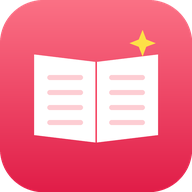
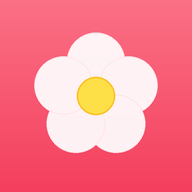
Add files via upload

diff --git a/index.html b/index.html
@@ -3,15 +3,15 @@
 <head>
     <meta charset="UTF-8">
     <meta name="viewport" content="width=device-width, initial-scale=1.0, viewport-fit=cover">
-    <meta name="description" content="Practice English - luyện từ vựng, ngữ pháp, flashcard và quiz.">
-    <title>ENT303 Study Hub</title>
+    <meta name="description" content="Mimi – Language Practice: học và luyện English, 中文 (HSK) và 日本語 (N5) với từ vựng, nghe, nói, viết, quiz và ôn tập.">
+    <title>Mimi – Language Practice</title>
 
     <!-- PWA / Mobile App -->
     <meta name="theme-color" content="#f43f5e">
     <meta name="mobile-web-app-capable" content="yes">
     <meta name="apple-mobile-web-app-capable" content="yes">
     <meta name="apple-mobile-web-app-status-bar-style" content="default">
-    <meta name="apple-mobile-web-app-title" content="ENT303">
+    <meta name="apple-mobile-web-app-title" content="Mimi">
     <link rel="manifest" href="manifest.webmanifest">
     <link rel="apple-touch-icon" href="icons/icon-192.png">
     <link rel="icon" type="image/png" href="icons/icon-192.png">
@@ -373,19 +373,19 @@ return{all:D,next,flat,pool};
 <style>body[data-mode="dark"] #auth-modal,body[data-mode="dark"] #col-ov{background:#12132a!important}#auth-modal,#col-ov{background:#faf9f6}</style>
 </head>
 <body class="text-gray-800 min-h-screen flex flex-col relative pb-12" onclick="closeHoverPopupOutside(event)">
-    <div id="cute-loader" class="cute-loader"><div class="text-center"><div class="loader-buddy text-6xl">🐣</div><div class="mt-3 text-lg font-black text-slateCustom">Đang mở góc học tập...</div><div class="mt-2 flex items-center justify-center gap-2"><span class="loader-dot w-2 h-2 rounded-full bg-rose-400"></span><span class="loader-dot w-2 h-2 rounded-full bg-amber-400"></span><span class="loader-dot w-2 h-2 rounded-full bg-emerald-400"></span></div></div></div>
+    <div id="cute-loader" class="cute-loader"><div class="text-center"><div class="loader-buddy text-6xl">🌸</div><div class="mt-3 text-lg font-black text-slateCustom">Mimi đang mở góc học tập...</div><div class="mt-2 flex items-center justify-center gap-2"><span class="loader-dot w-2 h-2 rounded-full bg-rose-400"></span><span class="loader-dot w-2 h-2 rounded-full bg-amber-400"></span><span class="loader-dot w-2 h-2 rounded-full bg-emerald-400"></span></div></div></div>
 
     <!-- Top Navigation Header -->
     <header class="bg-white/90 backdrop-blur-md sticky top-0 z-40 border-b border-rose-100 shadow-sm">
         <div class="max-w-7xl mx-auto px-4 sm:px-6 lg:px-8 h-12 flex justify-between items-center">
             
             <!-- Logo -->
-            <div onclick="switchSection('list')" class="flex items-center space-x-3 cursor-pointer group transition-all" title="Trở về Trang chủ từ vựng">
+            <div onclick="COLX.gate()" class="flex items-center space-x-3 cursor-pointer group transition-all" title="Chọn môn học (Mimi)">
                 <div class="w-10 h-10 bg-rose-500 rounded-2xl flex items-center justify-center text-white shadow-md shadow-rose-200 group-hover:scale-105 transition-transform">
-                    <i class="fa-solid fa-book-open text-lg"></i>
+                    <span class="text-xl leading-none">🌸</span>
                 </div>
                 <div>
-                    <span class="text-2xl font-extrabold text-slateCustom tracking-tight group-hover:text-rose-500 transition-colors">ENT303 <span class="text-rose-500 font-medium text-base">Master Hub</span></span>
+                    <span class="text-2xl font-extrabold text-slateCustom tracking-tight group-hover:text-rose-500 transition-colors">Mimi <span id="mimi-subj" class="text-rose-500 font-medium text-base">English</span></span>
                     <p data-guide="1" class="text-xs text-gray-400 font-medium">Vocabulary & Grammar • Flashcard • Quiz • Nghe chép • Tự động lưu</p>
                 </div>
             </div>
@@ -835,7 +835,7 @@ return{all:D,next,flat,pool};
         <span id="toast-message" class="text-sm">Đã lưu dữ liệu vĩnh viễn!</span>
     </div>
 
-    <div id="auth-modal" class="hidden fixed inset-0 items-center justify-center p-4 overflow-y-auto" style="z-index:6600"><div class="w-full max-w-sm bg-white rounded-[28px] p-6 shadow-2xl text-center"><div class="text-5xl bob">🐩</div><h2 class="text-2xl font-black text-slateCustom mt-2">Practice English</h2><div id="au-tabs" class="grid grid-cols-2 gap-2 mt-4"><button id="au-t-login" class="th-opt on" onclick="ENTX.mode('login')">Đăng nhập</button><button id="au-t-reg" class="th-opt" onclick="ENTX.mode('reg')">Tạo tài khoản</button></div><input id="au-name" maxlength="20" autocomplete="username" placeholder="Tên của bạn" class="mt-4 w-full px-4 py-3 rounded-2xl border border-rose-200 text-center font-extrabold outline-none"><input id="au-pin" type="password" inputmode="numeric" maxlength="4" autocomplete="current-password" placeholder="Mật khẩu 4 số" class="mt-3 w-full px-4 py-3 rounded-2xl border border-rose-200 text-center font-extrabold tracking-[.5em] outline-none" onkeydown="if(event.key==='Enter')ENTX.auth()"><label id="au-rem-row" class="mt-3 flex items-center justify-center gap-2 text-xs font-bold text-gray-600 cursor-pointer"><input id="au-remember" type="checkbox" checked class="w-4 h-4 accent-rose-500"> Ghi nhớ đăng nhập trên máy này</label><p id="au-hint" class="text-[11px] leading-relaxed text-gray-500 mt-3 px-1"></p><p id="au-err" class="text-xs font-bold text-rose-500 mt-2 min-h-4"></p><button id="au-go" onclick="ENTX.auth()" class="mt-2 w-full py-3.5 bg-rose-500 text-white rounded-2xl font-black">Đăng nhập ✨</button><button id="au-skip" onclick="ENTX.skip()" class="mt-3 text-[11px] text-gray-400 font-bold">Dùng thử không cần tài khoản</button></div></div>
+    <div id="auth-modal" class="hidden fixed inset-0 items-center justify-center p-4 overflow-y-auto" style="z-index:6600"><div class="w-full max-w-sm bg-white rounded-[28px] p-6 shadow-2xl text-center"><div class="text-5xl bob">🌸</div><h2 class="text-2xl font-black text-slateCustom mt-2">Mimi – Language Practice</h2><div id="au-tabs" class="grid grid-cols-2 gap-2 mt-4"><button id="au-t-login" class="th-opt on" onclick="ENTX.mode('login')">Đăng nhập</button><button id="au-t-reg" class="th-opt" onclick="ENTX.mode('reg')">Tạo tài khoản</button></div><input id="au-name" maxlength="20" autocomplete="username" placeholder="Tên của bạn" class="mt-4 w-full px-4 py-3 rounded-2xl border border-rose-200 text-center font-extrabold outline-none"><input id="au-pin" type="password" inputmode="numeric" maxlength="4" autocomplete="current-password" placeholder="Mật khẩu 4 số" class="mt-3 w-full px-4 py-3 rounded-2xl border border-rose-200 text-center font-extrabold tracking-[.5em] outline-none" onkeydown="if(event.key==='Enter')ENTX.auth()"><label id="au-rem-row" class="mt-3 flex items-center justify-center gap-2 text-xs font-bold text-gray-600 cursor-pointer"><input id="au-remember" type="checkbox" checked class="w-4 h-4 accent-rose-500"> Ghi nhớ đăng nhập trên máy này</label><p id="au-hint" class="text-[11px] leading-relaxed text-gray-500 mt-3 px-1"></p><p id="au-err" class="text-xs font-bold text-rose-500 mt-2 min-h-4"></p><button id="au-go" onclick="ENTX.auth()" class="mt-2 w-full py-3.5 bg-rose-500 text-white rounded-2xl font-black">Đăng nhập ✨</button><button id="au-skip" onclick="ENTX.skip()" class="mt-3 text-[11px] text-gray-400 font-bold">Dùng thử không cần tài khoản</button></div></div>
 <div id="theme-modal" class="hidden fixed inset-0 z-[6500] bg-black/40 backdrop-blur-sm items-center justify-center p-4" onclick="if(event.target===this)ENTX.closeTheme()"><div class="w-full max-w-sm bg-white rounded-[28px] p-5 shadow-2xl max-h-[90vh] overflow-y-auto"><div class="flex justify-between items-center"><h3 class="font-black text-lg text-slateCustom">🎨 Giao diện</h3><button onclick="ENTX.closeTheme()" class="text-gray-400 text-xl">✕</button></div><div class="grid grid-cols-2 gap-2 mt-4"><button class="th-opt" id="md-light" onclick="ENTX.mode('light')">☀ Sáng</button><button class="th-opt" id="md-dark" onclick="ENTX.mode('dark')">🌙 Tối</button></div><div class="grid grid-cols-2 gap-2 mt-3" id="th-grid"></div><p class="text-xs font-black text-gray-500 mt-4 mb-2">🖼 Hình nền</p><div class="grid grid-cols-4 gap-2" id="bg-presets"></div><div class="flex gap-2 mt-2"><label class="th-opt flex-1 text-center cursor-pointer">📁 Ảnh của bạn<input type="file" accept="image/*" class="hidden" onchange="ENTX.bgFile(event)"></label><button class="th-opt" onclick="ENTX.bgUrl()" title="Dán link ảnh">🔗</button><button class="th-opt" onclick="ENTX.bgClear()" title="Bỏ hình nền">🚫</button></div><div id="acct-row" class="hidden mt-4 pt-3 border-t border-gray-100 flex items-center justify-between"><b id="acct-name" class="text-sm text-slateCustom"></b><button onclick="ENTX.logout()" class="text-xs font-extrabold text-rose-500">Đăng xuất</button></div></div></div>
 
     <!-- APPLICATION SCRIPT ENGINE WITH LOCALSTORAGE PERSISTENCE -->
@@ -2774,7 +2774,7 @@ window.allVocabItems=function(){const o=[];(cur().folders||[]).forEach(f=>(units
 function buildHeader(){
   const c=cur(),ent=!!c.builtin;
   const brand=document.querySelector('header span.text-2xl');
-  if(brand)brand.innerHTML='Practice <span class="text-rose-500 font-medium text-base">English</span>';const sub=document.querySelector('header p[data-guide]');if(sub)sub.innerText=c.emoji+' '+c.name+' • Từ vựng • Ngữ pháp • Quiz';
+  if(brand)brand.innerHTML='Mimi <span id="mimi-subj" class="text-rose-500 font-medium text-base">English</span>';const sub=document.querySelector('header p[data-guide]');if(sub)sub.innerText=c.emoji+' '+c.name+' • Từ vựng • Ngữ pháp • Quiz';
   const opts=c.folders.map(f=>`<option value="${f.id}">${ent?('Unit '+f.id+': '+esc(fname(f))):('📁 '+esc(fname(f)))}</option>`).join('');
   ['unit-select','aw-unit'].forEach(id=>{const s=$(id);if(s)s.innerHTML=opts});
   if(!$('col-tools')){const s=$('unit-select');s.insertAdjacentHTML('afterend','<span id="col-tools" class="flex gap-1.5"><button onclick="COLX.folders()" title="Quản lý folder" class="px-3 py-1.5 bg-rose-50 border border-rose-200 text-rose-600 rounded-xl text-xs font-bold">📁</button><button onclick="COLX.lib(true)" title="Bộ sưu tập" class="px-3 py-1.5 bg-rose-50 border border-rose-200 text-rose-600 rounded-xl text-xs font-bold">🗂</button></span>')}
@@ -2818,6 +2818,7 @@ function closeOv(){ov().classList.add('hidden')}
 function card(onclick,emoji,title,sub,extra){return `<div class="home-card rounded-[26px] p-5 text-left cursor-pointer hover:shadow-lg transition" onclick="${onclick}"><div class="flex items-center gap-4"><span class="text-4xl">${emoji}</span><div class="min-w-0 flex-1"><b class="block text-lg font-black text-slateCustom truncate">${title}</b><span class="block text-xs font-bold text-gray-500 mt-0.5">${sub}</span></div></div>${extra||''}</div>`}
 function gate(){
   const n=LS.getItem('ENT303_NAME')||'',e=col('ent303'),hid=e.hidden;
+  if(window.Mimi){ov().innerHTML=Mimi.hub(n,acct());ov().classList.remove('hidden');ov().scrollTop=0;return}
   ov().innerHTML=`<div class="max-w-xl mx-auto px-5 py-10"><div class="text-center"><div class="text-6xl bob">🐩</div><h1 class="text-2xl font-black text-slateCustom mt-3">${n?'Hi '+esc(n)+'! ':''}Hôm nay học gì nào?</h1><p class="text-sm text-gray-500 mt-1">Chọn một chế độ để bắt đầu</p></div><div class="grid gap-4 mt-8">${card(hid?'COLX.restoreEnt()':"COLX.go('ent303')",'🎓',hid?'Khôi phục ENT303':'Học ENT303',hid?'Bộ ENT303 đang được ẩn • bấm để bật lại':'Top Notch 3 • 10 Units • '+words(e)+' từ')}${card('COLX.free()','✏','Luyện từ vựng & ngữ pháp','Tự tạo bộ sưu tập, folder, từ và ngữ pháp của riêng bạn')}</div>${acct()}</div>`;
   ov().classList.remove('hidden');
 }
@@ -2866,7 +2867,7 @@ window.COLX=X;X.free=function(){lib(false);if(!cols.some(c=>!c.builtin))X.newCol
 let started=false;
 X.start=function(){if(started)return;started=true;
   if(!cur()||cur().hidden){const o=cols.find(c=>!c.hidden);active=o?o.id:'ent303'}
-  if(LS.getItem('ENT303_ONBOARDED')==='1')enter(active);else gate()};
+  if(LS.getItem('ENT303_ONBOARDED')==='1'){const ls=window.Mimi?Mimi.saved:'en';enter(active);if((ls==='zh'||ls==='ja')&&window.Mimi)setTimeout(()=>Mimi.open(ls),0)}else gate()};
 function acct(){const P=window.ENT303MP,n=LS.getItem('ENT303_NAME')||'',on=P&&P.user&&P.user();
   return `<div class="mt-6 pt-4 border-t border-gray-200 flex items-center justify-between gap-3"><span class="text-sm font-bold text-slateCustom truncate">👤 ${esc(n||'Khách')}${on?'':' <small class="text-gray-400">(chưa đăng nhập)</small>'}</span>${on?`<button class="px-3 py-2 rounded-xl bg-rose-50 text-rose-600 text-xs font-extrabold" onclick="COLX.logout()">↪ Đăng xuất / đổi tài khoản</button>`:`<button class="px-3 py-2 rounded-xl bg-violet-50 text-violet-700 text-xs font-extrabold" onclick="COLX.login()">Đăng nhập / tạo tài khoản</button>`}</div>`}
 X.logout=function(){if(confirm('Đăng xuất khỏi tài khoản này?\nDữ liệu học đã được lưu trong tài khoản và sẽ tải lại khi bạn đăng nhập. Nhớ tên và mật khẩu 4 số nhé!'))ENT303MP.logout()};
@@ -2936,5 +2937,8 @@ window.addEventListener('load',()=>setTimeout(()=>{
 </script>
 
 <script src="ent-v8.js"></script>
+<script src="hsk1-data.js"></script>
+<script src="hsk1-app.js"></script>
+<script src="mimi.js"></script>
 </body>
 </html>

diff --git a/mimi.js b/mimi.js
@@ -1,0 +1,160 @@
+/* 🌸 Mimi – Language Practice
+   Khung 3 môn NGANG HÀNG: English • 中文 (HSK) • 日本語 (N5).
+   - Màn chọn môn (hub) + "Mimi Progress"
+   - Chip môn học ở header, thanh điều hướng theo môn
+   - Trang chủ môn Tiếng Nhật (nội dung đầy đủ làm ở bước sau)
+   Không chứa nội dung sách. Tiến độ chỉ ĐỌC từ dữ liệu sẵn có (chưa đồng bộ Supabase – Bước 5). */
+(()=>{
+if(window.Mimi)return;
+const LS=localStorage,$=id=>document.getElementById(id);
+const esc=s=>String(s).replace(/[&<>"]/g,c=>({'&':'&amp;','<':'&lt;','>':'&gt;','"':'&quot;'}[c]));
+/* Tạm thời: số từ hiện có trong hoc-ngoai-ngu.html (Hiragana + N5 cơ bản). Cập nhật ở Bước 11. */
+const JA_TOTAL=53;
+const SUBJ={
+  en:{flag:'🇬🇧',name:'English',label:'Tiếng Anh',chip:'English',sub:'Top Notch 3 • Từ vựng • Ngữ pháp • Quiz',c1:'#f43f5e',c2:'#fb923c'},
+  zh:{flag:'🇨🇳',name:'中文',label:'Tiếng Trung • HSK1',chip:'中文 HSK1',navLabel:'Tiếng Trung',sub:'Thanh điệu • Pinyin • Chữ Hán • 15 bài',c1:'#dc2626',c2:'#f59e0b'},
+  ja:{flag:'🇯🇵',name:'日本語',label:'Tiếng Nhật • N5',chip:'日本語 N5',navLabel:'Tiếng Nhật',sub:'Hiragana • Katakana • Minna no Nihongo',c1:'#ec4899',c2:'#6366f1'}
+};
+let cur='en';
+const saved=LS.getItem('MIMI_SUBJ')||'en'; /* môn lần trước – đọc trước khi app tự chuyển trang */
+
+/* ---------- tiến độ (chỉ đọc) ---------- */
+function statEn(){try{let n=0,t=0;for(let i=1;i<=10;i++){const u=unitsData[i];(u&&u.vocab||[]).forEach(v=>{t++;if(learnedCardsSet.has(v.word))n++})}return[n,t]}catch(e){return[0,0]}}
+function statZh(){try{const H=(window.HSK1||{}).lessons||[],all=H.flatMap(l=>l.w.map(w=>w[0]));let P={};try{P=JSON.parse(LS.getItem('PE_ZH')||'{}')}catch(e){}return[all.filter(c=>P[c]).length,all.length]}catch(e){return[0,0]}}
+function statJa(){try{let P={};try{P=JSON.parse(LS.getItem('PE_LANG')||'{}')}catch(e){}const n=Object.keys(P).filter(k=>k.slice(0,3)==='ja:'&&P[k]).length;return[Math.min(n,JA_TOTAL),JA_TOTAL]}catch(e){return[0,JA_TOTAL]}}
+const stats=()=>({en:statEn(),zh:statZh(),ja:statJa()});
+const pct=(n,t)=>t?Math.min(100,Math.round(n/t*100)):0;
+
+/* ---------- CSS ---------- */
+document.head.insertAdjacentHTML('beforeend',`<style id="mimi-css">
+.mm-wrap{max-width:860px;margin:0 auto;padding:max(28px,env(safe-area-inset-top)) max(18px,env(safe-area-inset-right)) max(28px,env(safe-area-inset-bottom)) max(18px,env(safe-area-inset-left));color:#334155}
+body[data-mode=dark] .mm-wrap{color:#e5e7eb}
+.mm-top{display:flex;align-items:center;min-height:44px}
+.mm-hero{text-align:center;margin:6px 0 22px}
+.mm-logo{font-size:64px;line-height:1;animation:mmfloat 3s ease-in-out infinite}
+@keyframes mmfloat{0%,100%{transform:translateY(0) rotate(-3deg)}50%{transform:translateY(-8px) rotate(3deg)}}
+.mm-hero h1{font-size:34px;font-weight:900;margin:8px 0 0;letter-spacing:-.5px}
+.mm-hero .mm-tag{font-weight:800;opacity:.65;font-size:14px;letter-spacing:.5px}
+.mm-hero .mm-hi{margin-top:10px;font-weight:800;font-size:17px}
+.mm-grid{display:grid;gap:14px;grid-template-columns:1fr}
+@media(min-width:720px){.mm-grid{grid-template-columns:repeat(3,1fr)}}
+.mm-card{display:flex;align-items:center;gap:16px;width:100%;min-height:92px;text-align:left;padding:16px 18px;border-radius:26px;border:1px solid var(--acc-b,#ffe4e6);background:var(--card,rgba(255,255,255,.96));color:inherit;box-shadow:0 10px 30px rgba(0,0,0,.07);position:relative;overflow:hidden;cursor:pointer;transition:transform .15s,box-shadow .15s}
+.mm-card:before{content:"";position:absolute;left:0;top:0;bottom:0;width:7px;background:linear-gradient(180deg,var(--c1),var(--c2))}
+.mm-card:hover{transform:translateY(-2px);box-shadow:0 14px 34px rgba(0,0,0,.12)}
+.mm-card:active{transform:scale(.985)}
+.mm-flag{font-size:40px;line-height:1;flex:none}
+.mm-txt{display:flex;flex-direction:column;gap:2px;min-width:0}
+.mm-name{font-size:24px;font-weight:900;line-height:1.15}
+.mm-lab{font-size:13px;font-weight:800;opacity:.75}
+.mm-sub{font-size:12px;font-weight:700;opacity:.55;line-height:1.35;margin-top:2px}
+.mm-go{margin-top:6px;font-size:12px;font-weight:900;color:var(--c1)}
+@media(min-width:720px){.mm-card{flex-direction:column;text-align:center;padding:22px 16px 18px}.mm-txt{align-items:center}.mm-card:before{width:auto;height:7px;right:0;bottom:auto;background:linear-gradient(90deg,var(--c1),var(--c2))}.mm-flag{font-size:46px}}
+.mm-box{margin-top:20px;border-radius:26px;padding:18px;border:1px solid var(--acc-b,#ffe4e6);background:var(--card,rgba(255,255,255,.96));box-shadow:0 8px 25px rgba(0,0,0,.05)}
+.mm-box h3{font-size:16px;font-weight:900;margin:0 0 12px}
+.mm-row{margin:12px 0}
+.mm-row .mm-rl{display:flex;justify-content:space-between;gap:10px;font-weight:900;font-size:14px;margin-bottom:6px}
+.mm-row .mm-rl small{font-weight:800;opacity:.6;font-size:12px}
+.mm-bar{display:block;height:12px;border-radius:99px;background:rgba(0,0,0,.08);overflow:hidden}
+body[data-mode=dark] .mm-bar{background:rgba(255,255,255,.14)}
+.mm-bar i{display:block;height:100%;border-radius:99px;background:linear-gradient(90deg,var(--c1),var(--c2));min-width:0;transition:width .5s}
+.mm-extra{display:flex;flex-wrap:wrap;gap:10px;margin-top:16px}
+.mm-btn{display:inline-flex;align-items:center;justify-content:center;gap:6px;min-height:46px;padding:10px 18px;border-radius:16px;border:1px solid var(--acc-b,#ffd7dd);background:var(--card,#fff);color:inherit;font-weight:900;font-size:14px;text-decoration:none;cursor:pointer}
+.mm-btn.pri{background:linear-gradient(135deg,#f43f5e,#fb923c);color:#fff;border:0}
+/* Chip môn học + nav theo môn */
+#mimi-subj{white-space:nowrap}
+#nav-mimi,#nav-subj{display:none}
+body[data-subject=zh] .bottom-nav-inner>button:not(#nav-mimi):not(#nav-subj):not(#nav-account),
+body[data-subject=ja] .bottom-nav-inner>button:not(#nav-mimi):not(#nav-subj):not(#nav-account){display:none!important}
+body[data-subject=zh] #nav-mimi,body[data-subject=zh] #nav-subj,body[data-subject=ja] #nav-mimi,body[data-subject=ja] #nav-subj{display:flex!important}
+body[data-subject=zh] .bottom-nav-inner,body[data-subject=ja] .bottom-nav-inner{grid-template-columns:repeat(3,minmax(0,1fr))!important}
+#nav-mimi{order:1}#nav-subj{order:2}#nav-account{order:3}
+body[data-subject=zh] #unit-select,body[data-subject=ja] #unit-select,body[data-subject=zh] #col-tools,body[data-subject=ja] #col-tools,
+body[data-subject=zh] header p[data-guide],body[data-subject=ja] header p[data-guide]{display:none!important}
+/* tai thỏ / cạnh màn hình */
+header{padding-top:env(safe-area-inset-top)}
+@media(max-width:640px){main.flex-grow{padding-left:max(16px,env(safe-area-inset-left));padding-right:max(16px,env(safe-area-inset-right))}}
+/* Trang chủ Tiếng Nhật */
+#ja-section{padding-bottom:20px}
+.mm-jhero{border-radius:28px;padding:22px;color:#fff;background:linear-gradient(135deg,#ec4899,#6366f1);box-shadow:0 12px 30px rgba(99,102,241,.25)}
+.mm-jhero h2{font-size:28px;font-weight:900;margin:4px 0}
+.mm-jhero p{opacity:.92;font-weight:700;font-size:14px}
+.mm-jhero .mm-bar{background:rgba(255,255,255,.3);margin-top:12px}
+.mm-jhero .mm-bar i{background:#fff}
+.mm-road{list-style:none;margin:0;padding:0}
+.mm-road li{display:flex;align-items:center;gap:10px;padding:11px 0;border-top:1px solid rgba(0,0,0,.07);font-weight:800;font-size:14px}
+body[data-mode=dark] .mm-road li{border-color:rgba(255,255,255,.1)}
+.mm-road li:first-child{border-top:0}
+.mm-road .mm-st{margin-left:auto;font-size:11px;padding:3px 9px;border-radius:99px;background:rgba(0,0,0,.07);white-space:nowrap}
+.mm-road .mm-st.ok{background:#dcfce7;color:#166534}
+body[data-mode=dark] .mm-road .mm-st{background:rgba(255,255,255,.12)}
+</style>`);
+
+/* ---------- Hub chọn môn ---------- */
+function hub(name,acctHtml){
+  const st=stats(),canClose=LS.getItem('ENT303_ONBOARDED')==='1';
+  const card=k=>{const s=SUBJ[k];return `<button type="button" class="mm-card" style="--c1:${s.c1};--c2:${s.c2}" onclick="Mimi.open('${k}')"><span class="mm-flag">${s.flag}</span><span class="mm-txt"><b class="mm-name">${s.name}</b><span class="mm-lab">${s.label}</span><span class="mm-sub">${s.sub}</span><span class="mm-go">Vào học →</span></span></button>`};
+  const row=k=>{const s=SUBJ[k],[n,t]=st[k],p=pct(n,t);return `<div class="mm-row" style="--c1:${s.c1};--c2:${s.c2}"><div class="mm-rl"><span>${s.flag} ${k==='zh'?'HSK1':k==='ja'?'N5':'English'}</span><small>${n}/${t} từ • ${p}%</small></div><span class="mm-bar"><i style="width:${p}%"></i></span></div>`};
+  return `<div class="mm-wrap">${canClose?'<div class="mm-top"><button class="back-btn" onclick="COLX.close()">← Đóng</button></div>':''}
+<div class="mm-hero"><div class="mm-logo">🌸</div><h1>Mimi</h1><div class="mm-tag">Language Practice</div><div class="mm-hi">${name?'Hi '+esc(name)+'! ':''}Hôm nay học gì nào?</div></div>
+<div class="mm-grid">${card('en')}${card('zh')}${card('ja')}</div>
+<div class="mm-box"><h3>📊 Mimi Progress</h3>${row('en')}${row('zh')}${row('ja')}</div>
+<div class="mm-extra"><button class="mm-btn" onclick="COLX.free()">🗂 Bộ sưu tập English của tôi</button></div>
+${acctHtml||''}</div>`;
+}
+
+/* ---------- Mở một môn ---------- */
+function openEn(){
+  let cols=[];try{cols=JSON.parse(LS.getItem('ENT303_COLS')||'[]')}catch(e){}
+  if(!Array.isArray(cols)||!cols.length){COLX.go('ent303');return}
+  const a=LS.getItem('ENT303_ACTIVE_COL')||'ent303';
+  const c=cols.find(x=>x.id===a&&!x.hidden)||cols.find(x=>!x.hidden);
+  if(c)COLX.go(c.id);else COLX.restoreEnt();
+}
+function open(k){
+  if(k==='en')return openEn();
+  if(!SUBJ[k])return;
+  try{COLX.close()}catch(e){}
+  switchSection(k);
+}
+
+/* ---------- Môn đang học: chip header, nav ---------- */
+function set(s){
+  if(!SUBJ[s])return;cur=s;LS.setItem('MIMI_SUBJ',s);
+  document.body.dataset.subject=s;
+  const chip=$('mimi-subj');if(chip)chip.textContent=SUBJ[s].chip;
+  const nb=$('nav-subj');if(nb){const e=nb.querySelector('.nav-emoji'),l=nb.querySelector('.nav-lbl');if(s!=='en'){if(e)e.textContent=SUBJ[s].flag;if(l)l.textContent=SUBJ[s].navLabel}}
+}
+function setupNav(){
+  const nav=document.querySelector('.bottom-nav-inner');if(!nav||$('nav-mimi'))return;
+  nav.insertAdjacentHTML('beforeend','<button id="nav-mimi" onclick="COLX.gate()" title="Chọn môn học"><span class="nav-emoji">🌸</span><span>Mimi</span></button><button id="nav-subj" onclick="Mimi.home()"><span class="nav-emoji">🇨🇳</span><span class="nav-lbl">Tiếng Trung</span></button>');
+}
+const home=()=>switchSection(cur==='ja'?'ja':'zh');
+
+/* ---------- Trang chủ Tiếng Nhật ---------- */
+function jaSec(){let s=$('ja-section');if(!s){const c=$('content-area');if(!c)return null;c.insertAdjacentHTML('beforeend','<div id="ja-section" class="hidden"></div>');s=$('ja-section')}return s}
+function drawJa(){
+  const s=jaSec();if(!s)return;
+  const [n,t]=statJa(),p=pct(n,t);
+  const road=[['あ','Hiragana','Có bản luyện cơ bản',1],['ア','Katakana','Sắp có',0],['🔊','Phát âm','Sắp có',0],['📚','Từ vựng N5','Có bản luyện cơ bản',1],['漢','Kanji','Sắp có',0],['📖','Minna no Nihongo (từng bài)','Sắp có',0],['🎧','Listening','Sắp có',0],['🗣','Speaking','Sắp có',0],['✍','Writing (tracing)','Sắp có',0],['🎯','Practice & Review','Sắp có',0]];
+  s.innerHTML=`<div class="mm-jhero"><div style="font-size:42px">🇯🇵</div><h2>日本語 N5</h2><p>Minna no Nihongo • Hiragana → Katakana → Từ vựng → Kanji → Luyện tập</p><span class="mm-bar"><i style="width:${p}%"></i></span><p style="margin-top:6px;font-size:12px">${n}/${t} từ đã thuộc (bản luyện hiện có)</p></div>
+<div class="mm-box"><h3>🚧 Đang xây dựng</h3><p style="font-size:14px;font-weight:700;opacity:.8;line-height:1.5">Giáo trình đầy đủ sẽ được thêm theo Minna no Nihongo sau khi HSK1 hoàn chỉnh. Trong lúc chờ, bạn có thể luyện Hiragana và từ N5 cơ bản ở trang luyện hiện có.</p><div class="mm-extra"><a class="mm-btn pri" href="hoc-ngoai-ngu.html">Mở trang luyện Hiragana · N5</a></div></div>
+<div class="mm-box"><h3>🗺 Lộ trình N5</h3><ol class="mm-road">${road.map(r=>`<li><span style="font-size:20px;width:28px;text-align:center">${r[0]}</span><span>${r[1]}</span><span class="mm-st ${r[3]?'ok':''}">${r[2]}</span></li>`).join('')}</ol></div>`;
+}
+
+/* ---------- Gắn vào điều hướng ---------- */
+const prev=window.switchSection;
+window.switchSection=function(s){
+  prev.apply(this,arguments);
+  const subj=s==='zh'?'zh':s==='ja'?'ja':s==='account'?cur:'en';
+  set(subj);
+  const ja=jaSec();
+  if(s==='ja'){if(ja){ja.classList.remove('hidden');drawJa()}$('unit-hero')?.classList.add('hidden');window.scrollTo(0,0)}
+  else if(ja)ja.classList.add('hidden');
+  const nb=$('nav-subj');if(nb)nb.classList.toggle('active',s==='zh'||s==='ja');
+};
+
+setupNav();
+document.body.dataset.subject='en';
+window.addEventListener('load',()=>setTimeout(setupNav,0));
+window.Mimi={hub,open,home,stats,set,saved,subjects:SUBJ,current:()=>cur};
+})();

diff --git a/ent-v8.js b/ent-v8.js
@@ -115,7 +115,7 @@ function render(){const a=$('account-section');if(!a)return;const n=LS.getItem('
  <div class="ac-card"><h3>📣 Thông báo</h3>${anns.length?anns.map(x=>`<div class="text-sm py-1 border-b border-gray-100">${esc(x.text)} <small class="text-gray-400">${new Date(x.created_at).toLocaleDateString('vi-VN')}</small>${isHost?` <button class="text-rose-500 text-xs" onclick="ENT8.delAnn(${x.id})">xóa</button>`:''}</div>`).join(''):'<p class="text-sm text-gray-400">Chưa có thông báo.</p>'}
  ${isHost?'<textarea id="ann-in" rows="2" class="w-full mt-2 p-3 border border-rose-100 rounded-xl text-sm" placeholder="Nội dung thông báo cho cả lớp..."></textarea><button class="ac-btn pri mt-2" onclick="ENT8.postAnn()">Đăng thông báo</button>':''}</div>
  ${isHost?'<div class="ac-card"><h3>🛠 Công cụ Host</h3><p class="text-xs text-gray-500 mb-2">Sửa từ/ngữ pháp bằng nút ⋮ như bình thường, rồi bấm Xuất bản để mọi tài khoản nhận thay đổi.</p><div class="flex flex-wrap gap-2"><button class="ac-btn pri" onclick="ENT8.publish()">📤 Xuất bản cho cả lớp</button><button class="ac-btn" onclick="ENT8.pull(true)">⬇ Tải lại bản đã xuất bản</button></div></div>':''}
- <div class="ac-card"><h3>🌏 Học Tiếng Trung · Tiếng Nhật</h3><p class="text-xs text-gray-500 mb-2">HSK1–2 và N5 cho người mới bắt đầu.</p><a class="ac-btn pri" href="hoc-ngoai-ngu.html">Mở trang học</a></div>
+ <div class="ac-card"><h3>🌸 Chọn môn học</h3><p class="text-xs text-gray-500 mb-2">English • 中文 (HSK) • 日本語 (N5) — 3 môn ngang hàng trong Mimi.</p><button class="ac-btn pri" onclick="COLX.gate()">Mở Mimi</button></div>
  ${stuCard()}
  ${wordsList()}
  ${qCard()}
@@ -154,5 +154,4 @@ if(sb)sb.auth.onAuthStateChange(()=>checkHost());
 if('serviceWorker'in navigator)addEventListener('load',()=>navigator.serviceWorker.register('sw.js').catch(()=>{}));
 addEventListener('load',()=>setTimeout(async()=>{setup();injectQ();await checkHost();E8.pull();loadAnns()},900));
 })();
-/* Tiếng Trung HSK1: nạp dữ liệu rồi nạp phần giao diện */
-(function(){const L=s=>new Promise(r=>{const e=document.createElement('script');e.src=s;e.onload=e.onerror=r;document.body.appendChild(e)});L('hsk1-data.js').then(()=>L('hsk1-app.js'))})();
+/* hsk1-data.js, hsk1-app.js và mimi.js được nạp trực tiếp bằng <script> trong index.html (đúng thứ tự). */

diff --git a/hsk1-app.js b/hsk1-app.js
@@ -1,4 +1,4 @@
-/* Tiếng Trung HSK1 trong app ENT303: Bước 0 (thanh điệu, phụ âm, vần, chữ Hán) + 15 bài + luyện tập. Dữ liệu: hsk1-data.js */
+/* Tiếng Trung HSK1 trong Mimi: Bước 0 (thanh điệu, phụ âm, vần, chữ Hán) + 15 bài + luyện tập. Dữ liệu: hsk1-data.js */
 (()=>{
 const H=(window.HSK1||{}).lessons;if(!H)return;
 const $=id=>document.getElementById(id),LS=localStorage,toast=m=>{try{showToast(m)}catch(e){alert(m)}};
@@ -58,5 +58,5 @@ Object.assign(window.Z_,{next:()=>{Q.n++;draw()},again:()=>{Q=mk(Z.i);draw()}});
 /* ---- Gắn vào điều hướng của app (Back, nút Back điện thoại, lịch sử) ---- */
 const prev=window.switchSection;
 window.switchSection=function(s){prev.apply(this,arguments);if(s==='zh'){const st=history.state;Z=(st&&st.s==='zh'&&st.z)||{v:'home'};if(Z.v!=='quiz')Q=null;sec.classList.remove('hidden');$('unit-hero')?.classList.add('hidden');draw()}else sec.classList.add('hidden')};
-const g=document.querySelector('#home-section section.grid');if(g)g.insertAdjacentHTML('beforeend','<button onclick="switchSection(\'zh\')" class="home-action"><span class="text-2xl">🇨🇳</span><b class="block mt-1 text-sm">Tiếng Trung</b></button>');
+/* Mimi: Tiếng Trung là môn ngang hàng, mở từ màn chọn môn (không còn là nút phụ trong trang chủ English). */
 })();

diff --git a/sw.js b/sw.js
@@ -1,5 +1,5 @@
-const CACHE='ent303-v15-20261007';
-const APP=['./','./index.html','./ent-v8.js','./hsk1-data.js','./hsk1-app.js','./supabase-config.js','./manifest.webmanifest','./icons/icon-192.png','./icons/icon-512.png'];
+const CACHE='mimi-v16-20261007';
+const APP=['./','./index.html','./ent-v8.js','./hsk1-data.js','./hsk1-app.js','./mimi.js','./hoc-ngoai-ngu.html','./supabase-config.js','./manifest.webmanifest','./icons/icon-192.png','./icons/icon-512.png','./icons/icon-maskable-512.png'];
 self.addEventListener('install',e=>e.waitUntil(caches.open(CACHE).then(c=>Promise.all(APP.map(u=>c.add(u).catch(()=>{})))).then(()=>self.skipWaiting())));
 self.addEventListener('activate',e=>e.waitUntil(caches.keys().then(k=>Promise.all(k.filter(x=>x!==CACHE).map(x=>caches.delete(x)))).then(()=>self.clients.claim())));
 self.addEventListener('fetch',e=>{const r=e.request;if(r.method!=='GET'||!r.url.startsWith('http'))return;

diff --git a/hoc-ngoai-ngu.html b/hoc-ngoai-ngu.html
@@ -1,4 +1,4 @@
-<!doctype html><html lang="vi"><head><meta charset="utf-8"><meta name="viewport" content="width=device-width,initial-scale=1,viewport-fit=cover"><meta name="theme-color" content="#e11d48"><title>Học Trung · Nhật</title>
+<!doctype html><html lang="vi"><head><meta charset="utf-8"><meta name="viewport" content="width=device-width,initial-scale=1,viewport-fit=cover"><meta name="theme-color" content="#e11d48"><title>Mimi · 中文 &amp; 日本語 (luyện nhanh)</title>
 <style>
 :root{--bg:#fff7f8;--c:#fff;--t:#2b2430;--m:#7a6f80;--ok:#16a34a;--no:#dc2626;--a:#e11d48;--b:#fb923c}
 @media(prefers-color-scheme:dark){:root{--bg:#17131a;--c:#241d29;--t:#f3ecf6;--m:#a99db0}}

diff --git a/README.md b/README.md
@@ -1,6 +1,8 @@
-# 🐩 ENT303 - Top Notch 3 Study Hub v5
+# 🌸 Mimi – Language Practice
 
-Website/PWA học **Vocabulary + Grammar + Quiz** cho Top Notch 3, nay có thêm chế độ **Study With Friends**: tài khoản, mã lớp, XP và bảng xếp hạng theo tuần.
+Website/PWA học và luyện ngoại ngữ với **3 môn ngang hàng**: 🇬🇧 English, 🇨🇳 中文 (HSK) và 🇯🇵 日本語 (N5). Có chế độ **Study With Friends**: tài khoản, mã lớp, XP và bảng xếp hạng theo tuần.
+
+> Mimi phát triển từ app ENT303 Study Hub. Toàn bộ chức năng English/ENT303 vẫn được giữ nguyên trong môn English.
 
 ## Chế độ offline
 - Học từ vựng, flashcard, quiz, nghe/chép.

diff --git a/README-MULTIPLAYER.md b/README-MULTIPLAYER.md
@@ -1,4 +1,4 @@
-# 🐩 ENT303 Study With Friends — bật học chung + leaderboard
+# 🌸 Mimi – Study With Friends — bật học chung + leaderboard
 
 Bản này giữ toàn bộ chế độ học offline của ENT303. Muốn bật tài khoản, XP và bảng xếp hạng chung thì nối Supabase.
 
